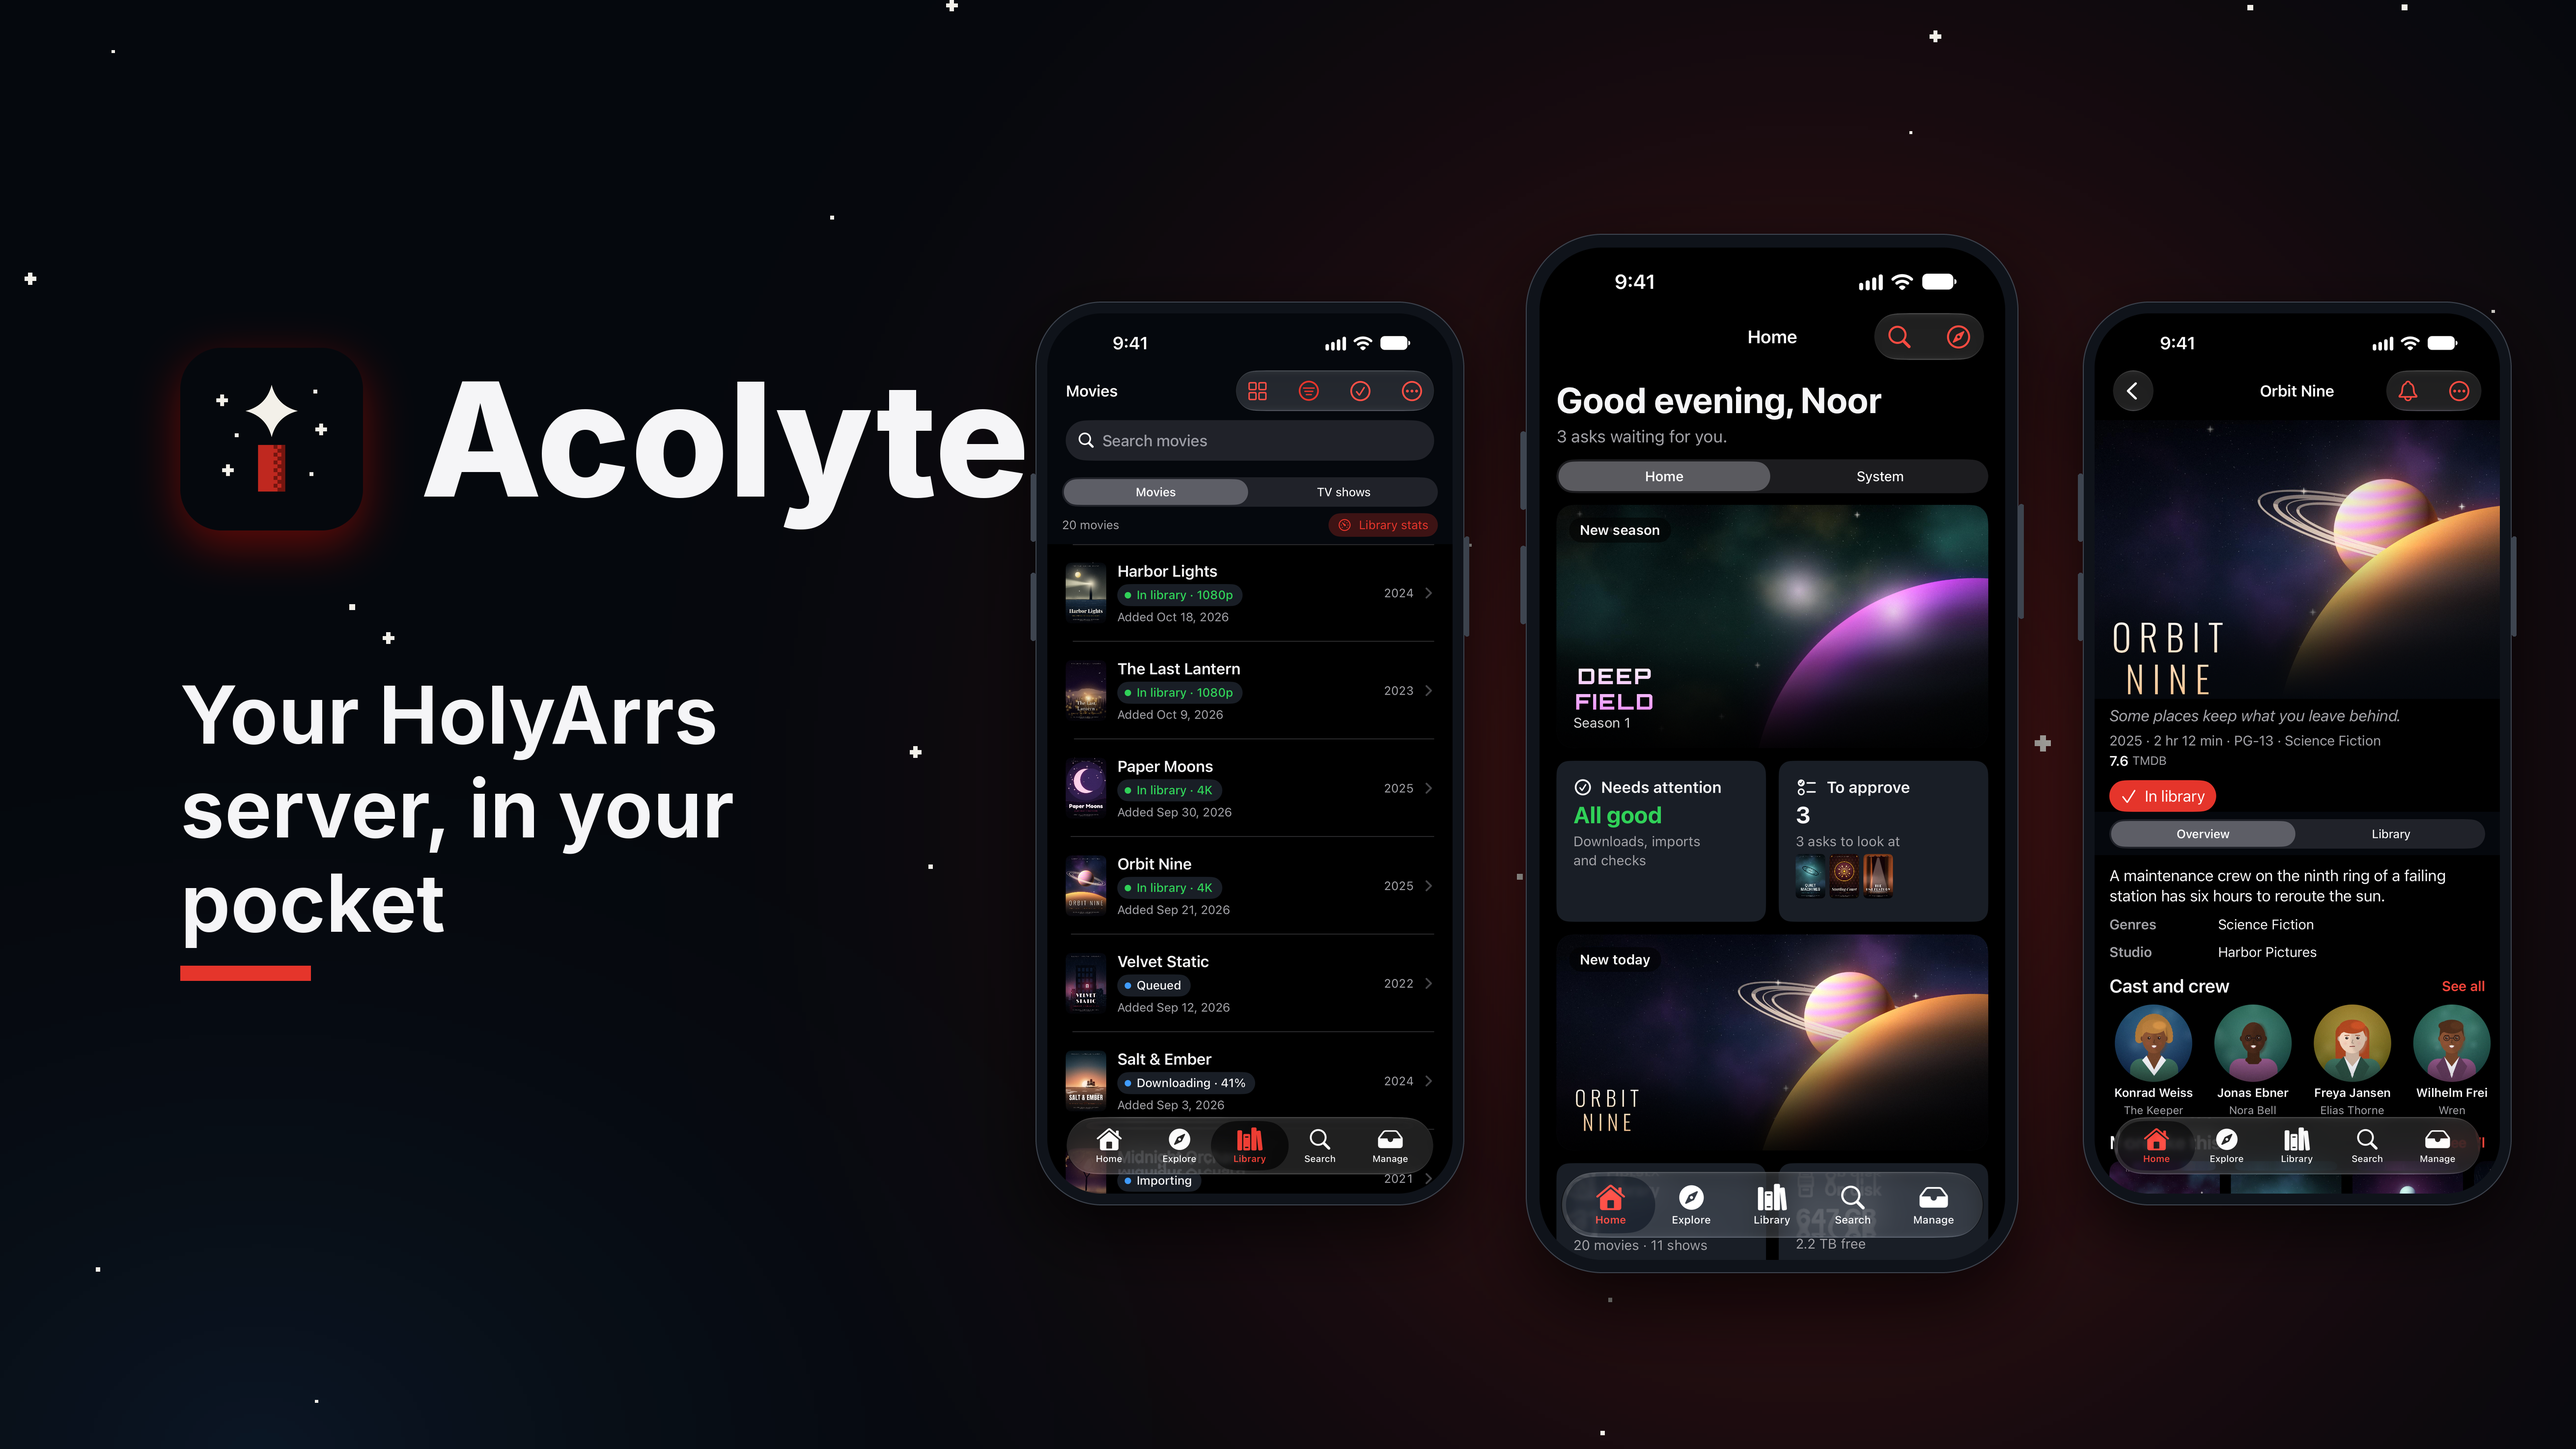
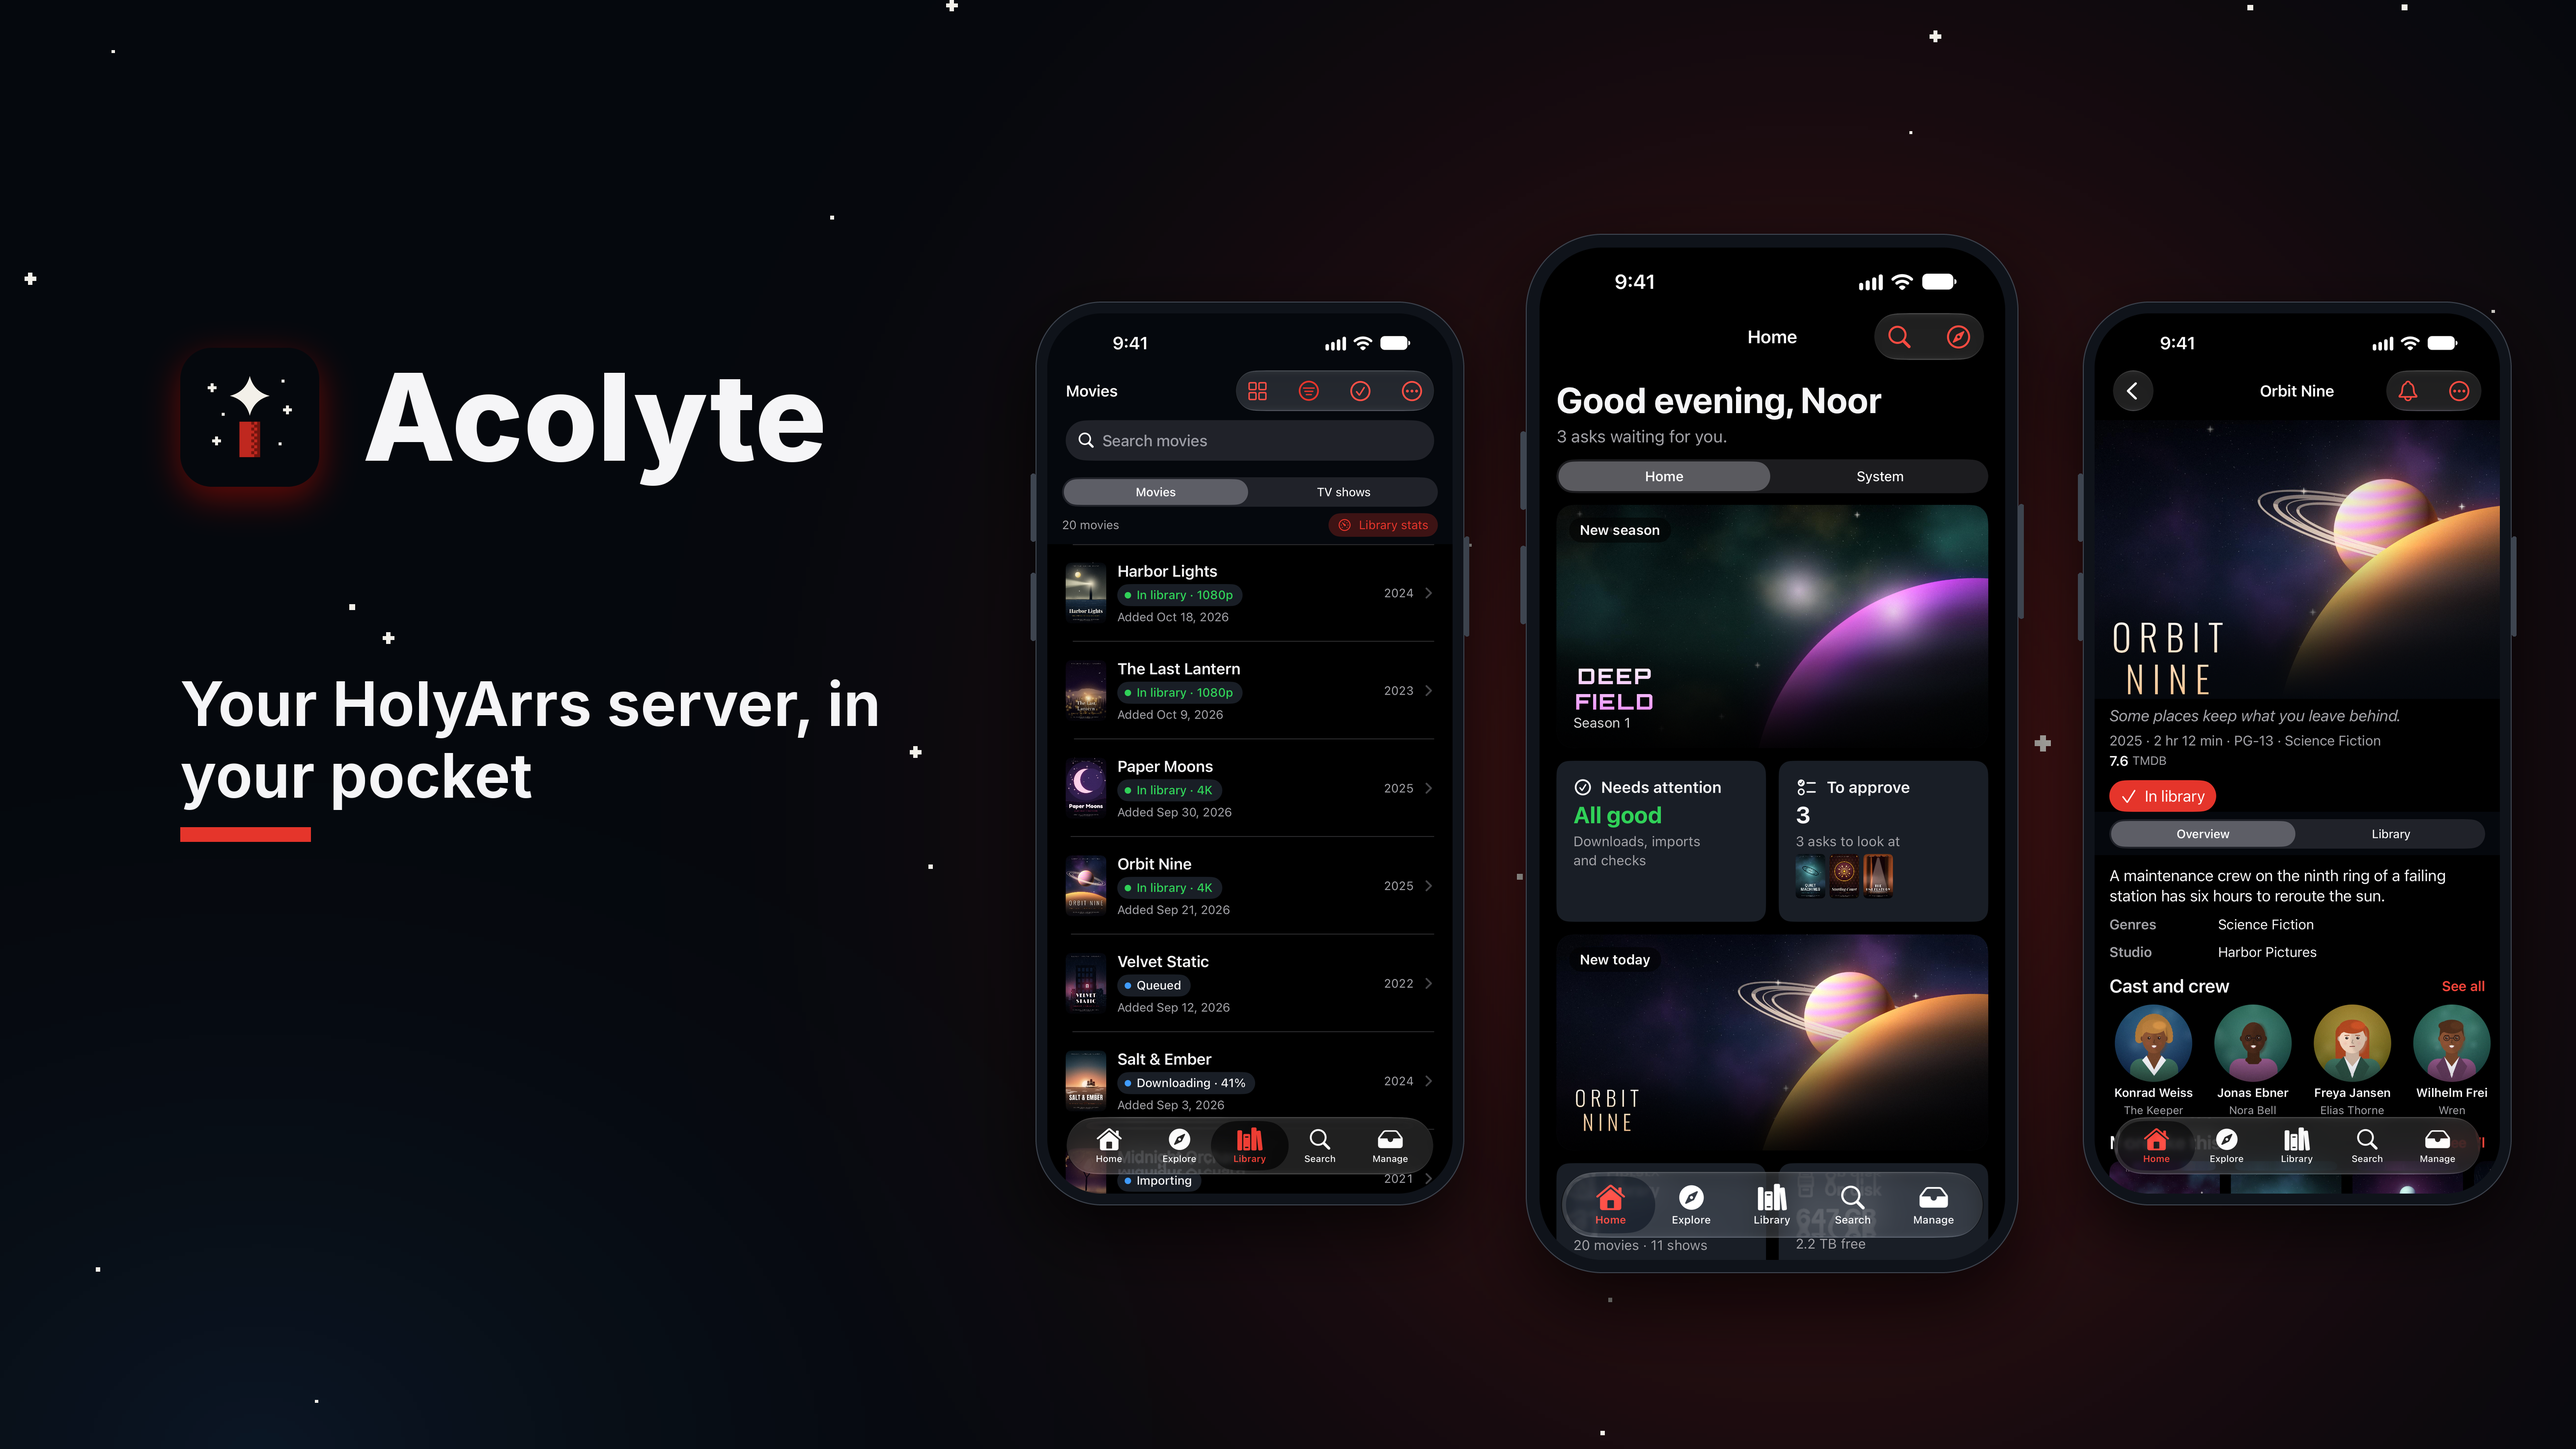
draw the app store search image at 3840x2560
the search results slot does not take 3840x1646; the wordmark and tagline now scale with the width so they stay clear of the phones

Changed region(s): [[0.0622, 0.4678, 0.3419, 0.6861], [0.0622, 0.2495, 0.4041, 0.4054]]

diff --git a/scripts/store/make-promo.py b/scripts/store/make-promo.py
@@ -370,9 +370,9 @@ def phone_row(img, kind, locale, items, x0, x1, cy, base):
 def phones_scene(W, H, locale, shots, path, tagline, text_x=0.06):
     img = background(W, H, glows_for(W, H, 0.7), star_count=28)
     phone_row(img, "ios", locale, list(zip(shots, (0.8, 0.92, 0.8))), W * 0.40, W * 0.98, H * 0.52, H)
-    wordmark(img, W * text_x, H * 0.24, H * 0.14)
+    wordmark(img, W * text_x, H * 0.24, min(H * 0.14, W * 0.06))
     d = ImageDraw.Draw(img)
-    y = text_block(d, W * text_x, H * 0.46, tagline, H * 0.055, 650, TEXT, W * 0.32, line=1.18)
+    y = text_block(d, W * text_x, H * 0.46, tagline, min(H * 0.055, W * 0.0236), 650, TEXT, W * 0.32, line=1.18)
     d.rectangle((W * text_x, y + H * 0.012, W * text_x + H * 0.09, y + H * 0.022), fill=RED_HOT)
     finish(img, path, noise=False)
 
@@ -476,7 +476,7 @@ def main(args):
     if "store" in want:
         st = ROOT / "assets/store"
         phones_scene(5244, 2950, "en-US", ("04-library", "01-home", "03-title"), st / "appstore-header-5244x2950.png", STORE_TAGLINE, 0.07)
-        phones_scene(3840, 1646, "en-US", ("04-library", "01-home", "03-title"), st / "appstore-search-3840x1646.png", STORE_TAGLINE)
+        phones_scene(3840, 2560, "en-US", ("04-library", "01-home", "03-title"), st / "appstore-search-3840x2560.png", STORE_TAGLINE, 0.07)
         feature_graphic(st / "feature-graphic.png")
         tv_banner(st / "androidtv-banner-1280x720.png")
     if "captioned" in want:

diff --git a/README.md b/README.md
@@ -216,7 +216,7 @@ python3 scripts/store/make-promo.py            # or: readme | site | store | cap
 |---|---|
 | `assets/readme/banner.jpg`, `ios.jpg`, `android.jpg`, `tvos.jpg`, `androidtv.jpg` | README banner and one strip per platform |
 | `site/assets/img/` | Website pictures, English and German: `hero-*`, `tvos-*` and `androidtv-*` at 1200 and 2400 px (WebP), one framed phone per screen (`ios-*`, `android-*`, WebP with alpha), sharing pictures `og-en.jpg` and `og-de.jpg` (1200 x 630) |
-| `assets/store/appstore-header-5244x2950.png`, `appstore-search-3840x1646.png` | App Store header images (iPhone) |
+| `assets/store/appstore-header-5244x2950.png`, `appstore-search-3840x2560.png` | App Store header and search results images (iPhone) |
 | `assets/store/feature-graphic.png` | Google Play feature graphic, 1024 x 500 |
 | `assets/store/androidtv-banner-1280x720.png` | Google Play Android TV banner, 1280 x 720 (required to publish an Android TV app; JPEG or 24-bit PNG without alpha) |
 | `assets/store/captioned/<platform>/<locale>/` | Optional screenshots with a headline above a framed screen (JPEG): iPhone 1320 x 2868, Android 1080 x 1920, Apple TV and Android TV 1920 x 1080. The plain sets in `store/screenshots/` stay the ones to upload; use these where a store allows marketing captions |
